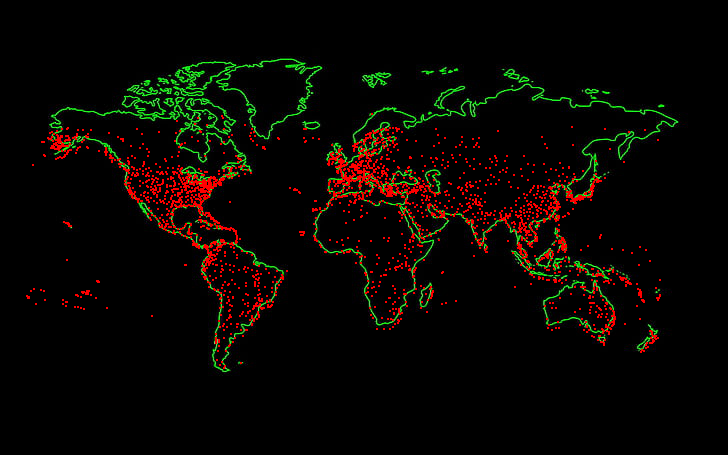
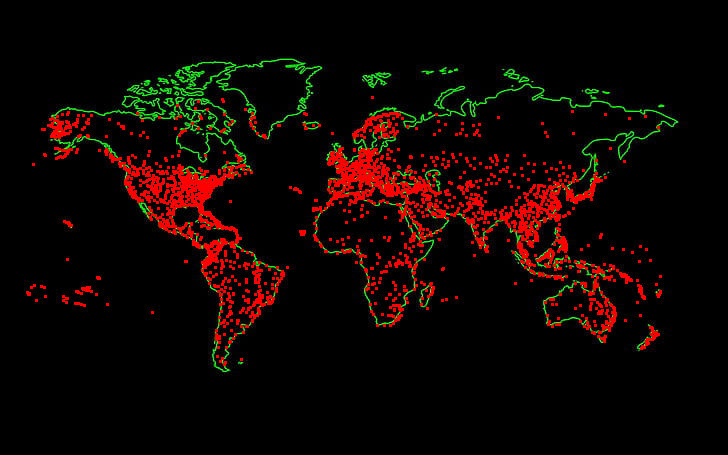
improved mapping

diff --git a/main.cpp b/main.cpp
@@ -19,8 +19,19 @@ int main() {
 
     for( auto airport : system.getAirports()){
         int x=round(airport.getLongitude()*1.7621+343.4);
-        int y=round(airport.getLatitude()*(-1.909)+262.71);
-        script.fill(x,y,2,2,255,0,0);
+        int y=0;
+        if( airport.getLatitude()<0){
+            y=round(airport.getLatitude()*(-1.909)+258.71);
+        }else{
+            if(airport.getLatitude()>60){
+                y=round(airport.getLatitude()*(-2.209)+268.71);
+            }else{
+                y=round(-1.909*airport.getLatitude()+261.71);
+            }
+
+        }
+
+        script.fill(x,y,3,3,255,0,0);
 
     }
     script.save();
